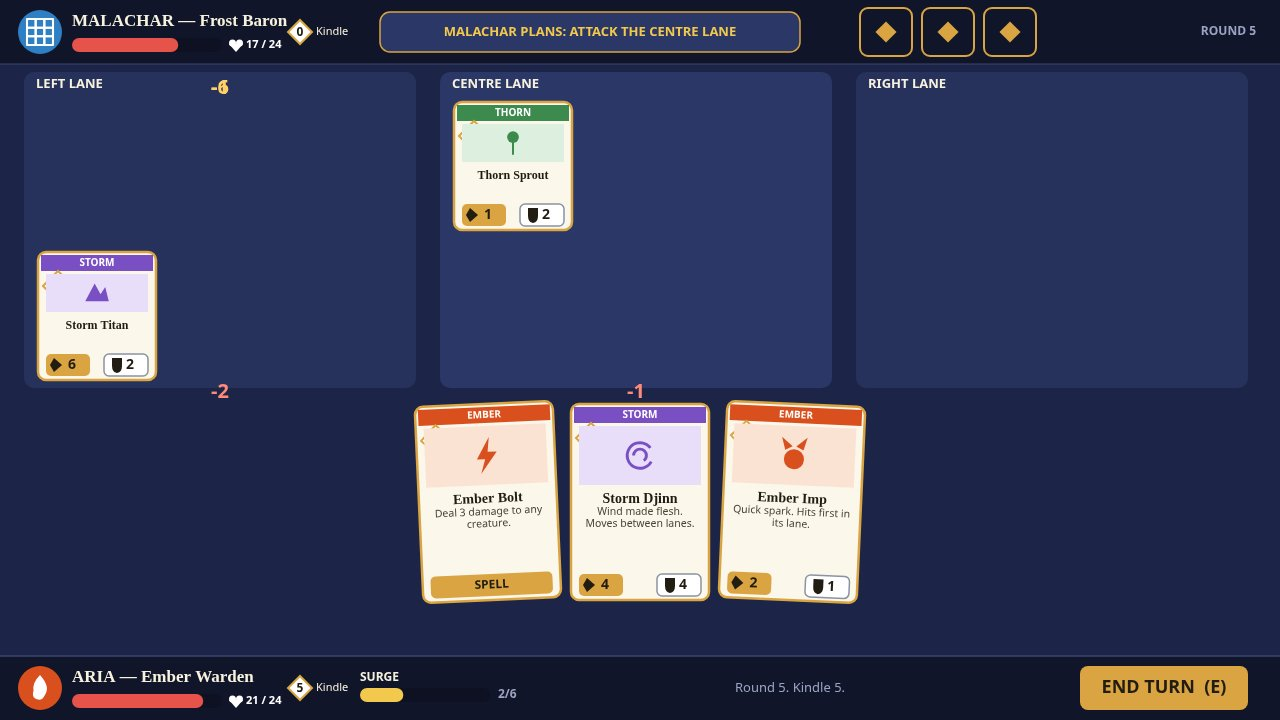
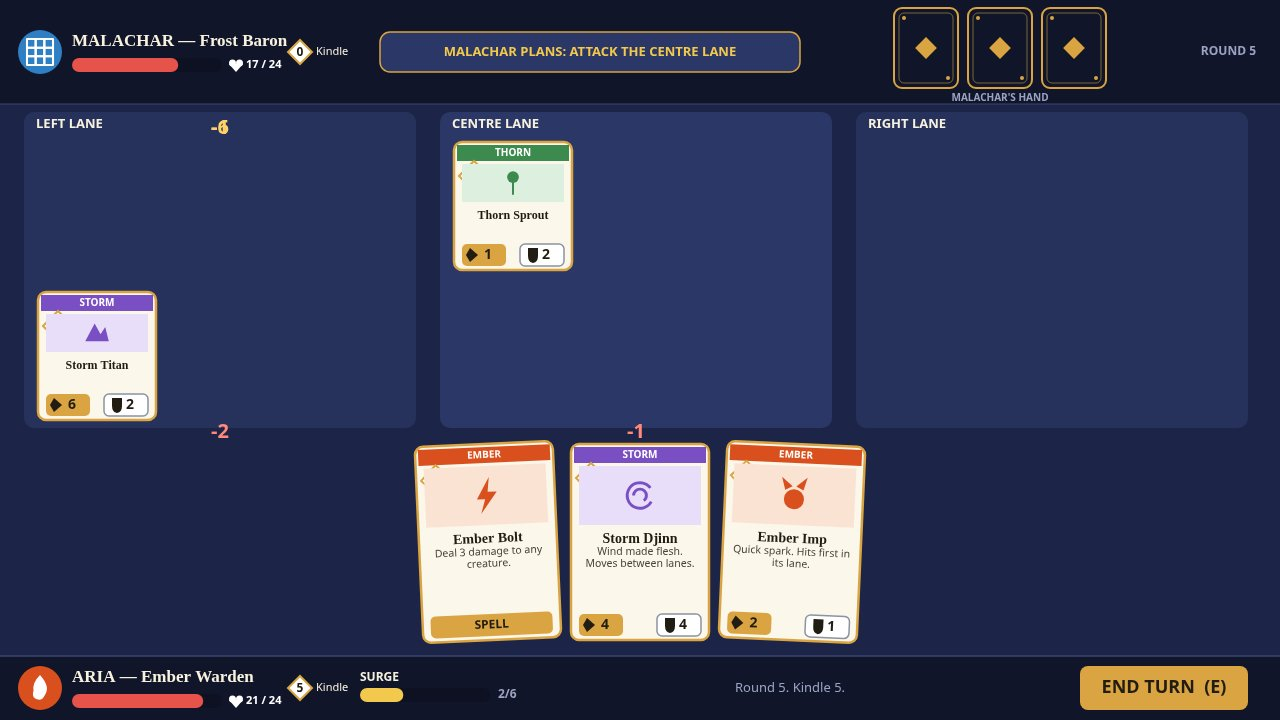
Show Malachar's hand as face-down cards on the table

diff --git a/game/src/render.js b/game/src/render.js
@@ -163,13 +163,24 @@ export function drawArt(ctx, art, cx, cy, s, color) {
 }
 
 function drawCardBack(ctx, x, y, w, h) {
+  // A face-down card must read as a CARD at a glance: portrait, a gold
+  // outer edge, a second inner frame, and a small centred diamond.
+  // v2 shipped 52x48 near-square backs whose big diamond looked like
+  // three gold buttons in the top bar, not a hand of cards.
   roundRect(ctx, x, y, w, h, 8);
   ctx.fillStyle = PALETTE.panel;
   ctx.fill();
   ctx.strokeStyle = PALETTE.gold;
   ctx.lineWidth = 2;
   ctx.stroke();
-  diamond(ctx, x + w / 2, y + h / 2, Math.min(w, h) * 0.22, PALETTE.gold, null);
+  ctx.strokeStyle = 'rgba(217,164,65,0.55)';
+  ctx.lineWidth = 1;
+  roundRect(ctx, x + 5, y + 5, w - 10, h - 10, 5);
+  ctx.stroke();
+  diamond(ctx, x + w / 2, y + h / 2, Math.min(w, h) * 0.17, PALETTE.gold, null);
+  ctx.fillStyle = PALETTE.gold;
+  ctx.beginPath(); ctx.arc(x + 10, y + 10, 2, 0, Math.PI * 2); ctx.fill();
+  ctx.beginPath(); ctx.arc(x + w - 10, y + h - 10, 2, 0, Math.PI * 2); ctx.fill();
 }
 
 export function drawCard(ctx, card, x, y, w, h, opts = {}) {
@@ -406,24 +417,26 @@ function drawHelp(ctx) {
 
 function drawLane(ctx, game, lane) {
   const x = LANE_X[lane];
+  // Lanes start at y=112, below the taller (104px) top bar that now
+  // holds Malachar's face-down hand as real portrait cards.
   ctx.fillStyle = lane % 2 === 0 ? PALETTE.lane : PALETTE.laneAlt;
-  roundRect(ctx, x, 72, LANE_W, 316, 10);
+  roundRect(ctx, x, 112, LANE_W, 316, 10);
   ctx.fill();
   ctx.fillStyle = PALETTE.ivory;
   ctx.font = `bold 13px ${FONT_UI}`;
   ctx.textAlign = 'left';
   ctx.textBaseline = 'middle';
-  ctx.fillText(LANES[lane].toUpperCase(), x + 12, 84);
+  ctx.fillText(LANES[lane].toUpperCase(), x + 12, 124);
   const res = game.player.lanes[lane].some((c) => resonanceBonus(game.player, lane, c) > 0)
     || game.ai.lanes[lane].some((c) => resonanceBonus(game.ai, lane, c) > 0);
   if (res) {
     ctx.fillStyle = PALETTE.gold;
-    roundRect(ctx, x + LANE_W - 128, 74, 116, 20, 9);
+    roundRect(ctx, x + LANE_W - 128, 114, 116, 20, 9);
     ctx.fill();
     ctx.fillStyle = PALETTE.ink;
     ctx.font = `bold 11px ${FONT_UI}`;
     ctx.textAlign = 'center';
-    ctx.fillText('RESONANCE +1', x + LANE_W - 70, 84);
+    ctx.fillText('RESONANCE +1', x + LANE_W - 70, 124);
   }
   ctx.textAlign = 'center';
   // Opponent creatures on top, player creatures below: the table reads
@@ -431,19 +444,19 @@ function drawLane(ctx, game, lane) {
   game.ai.lanes[lane].forEach((creature, i) => {
     const cx = x + 14 + i * (BOARD_CARD.w + 10);
     const shown = { ...creature, atk: effectiveAtk(game, game.ai, lane, creature) };
-    drawCard(ctx, shown, cx, 102, BOARD_CARD.w, BOARD_CARD.h);
+    drawCard(ctx, shown, cx, 142, BOARD_CARD.w, BOARD_CARD.h);
   });
   game.player.lanes[lane].forEach((creature, i) => {
     const cx = x + 14 + i * (BOARD_CARD.w + 10);
     const shown = { ...creature, atk: effectiveAtk(game, game.player, lane, creature) };
     const selected = game.selected >= 0 && game.selectedLane === lane;
-    drawCard(ctx, shown, cx, 252, BOARD_CARD.w, BOARD_CARD.h, { selected });
+    drawCard(ctx, shown, cx, 292, BOARD_CARD.w, BOARD_CARD.h, { selected });
   });
   if (game.selected >= 0 && game.selectedLane === lane) {
     ctx.strokeStyle = PALETTE.goldBright;
     ctx.lineWidth = 3;
     ctx.setLineDash([8, 6]);
-    roundRect(ctx, x - 4, 240, LANE_W + 8, 152, 10);
+    roundRect(ctx, x - 4, 280, LANE_W + 8, 148, 10);
     ctx.stroke();
     ctx.setLineDash([]);
   }
@@ -452,30 +465,33 @@ function drawLane(ctx, game, lane) {
 export function handCardRect(index, count) {
   const total = count * HAND_CARD.w + (count - 1) * 14;
   const x0 = (FIELD.width - total) / 2;
-  return { x: x0 + index * (HAND_CARD.w + 14), y: 404, w: HAND_CARD.w, h: HAND_CARD.h };
+  return { x: x0 + index * (HAND_CARD.w + 14), y: 444, w: HAND_CARD.w, h: HAND_CARD.h };
 }
 
 export function drawTable(ctx, game) {
   ctx.fillStyle = PALETTE.table;
   ctx.fillRect(0, 0, FIELD.width, FIELD.height);
-  // Top bar: Malachar, his intent, his face-down hand.
+  // Top bar: Malachar, his intent, his face-down hand. The bar is
+  // 104px tall so the opponent hand fits as real portrait cards
+  // (64x80) with a label underneath — not the 52x48 near-squares
+  // v2 shipped, whose big diamond read as three gold buttons.
   ctx.fillStyle = PALETTE.panel;
-  ctx.fillRect(0, 0, FIELD.width, 64);
+  ctx.fillRect(0, 0, FIELD.width, 104);
   ctx.strokeStyle = PALETTE.panelEdge;
-  ctx.beginPath(); ctx.moveTo(0, 64); ctx.lineTo(FIELD.width, 64); ctx.stroke();
+  ctx.beginPath(); ctx.moveTo(0, 104); ctx.lineTo(FIELD.width, 104); ctx.stroke();
   ctx.fillStyle = ELEMENTS.frost.color;
-  ctx.beginPath(); ctx.arc(40, 32, 22, 0, Math.PI * 2); ctx.fill();
-  drawArt(ctx, 'wall', 40, 32, 26, '#ffffff');
+  ctx.beginPath(); ctx.arc(40, 52, 22, 0, Math.PI * 2); ctx.fill();
+  drawArt(ctx, 'wall', 40, 52, 26, '#ffffff');
   ctx.fillStyle = PALETTE.ivory;
   ctx.font = `bold 17px ${FONT}`;
   ctx.textAlign = 'left';
   ctx.textBaseline = 'middle';
-  ctx.fillText('MALACHAR — Frost Baron', 72, 22);
-  lifeBar(ctx, 72, 38, 150, game.ai.life);
-  kindleGem(ctx, 300, 32, game.ai.kindle);
+  ctx.fillText('MALACHAR — Frost Baron', 72, 42);
+  lifeBar(ctx, 72, 58, 150, game.ai.life);
+  kindleGem(ctx, 300, 52, game.ai.kindle);
   // Intent: what Malachar will do next, visible before his turn.
   ctx.fillStyle = '#2b3766';
-  roundRect(ctx, 380, 12, 420, 40, 10);
+  roundRect(ctx, 380, 32, 420, 40, 10);
   ctx.fill();
   ctx.strokeStyle = PALETTE.gold;
   ctx.lineWidth = 1.5;
@@ -483,15 +499,30 @@ export function drawTable(ctx, game) {
   ctx.fillStyle = PALETTE.goldBright;
   ctx.font = `bold 13px ${FONT_UI}`;
   ctx.textAlign = 'center';
-  ctx.fillText(`MALACHAR PLANS: ${game.intent.toUpperCase()}`, 590, 32);
-  // Opponent hand: face-down cards, counted by the backs themselves.
-  for (let i = 0; i < game.ai.hand.length; i += 1) {
-    drawCardBack(ctx, 860 + i * 62, 8, 52, 48);
+  ctx.fillText(`MALACHAR PLANS: ${game.intent.toUpperCase()}`, 590, 52);
+  // Opponent hand: one face-down portrait card per card in his hand,
+  // in a row above the lanes, centred on x=1000, clear of the intent
+  // bar (ends x=800) and the ROUND readout (right edge).
+  {
+    const n = game.ai.hand.length;
+    const bw = n <= 4 ? 64 : 48;
+    const bh = Math.round(bw * 1.25);
+    const gap = 10;
+    const total = n * bw + (n - 1) * gap;
+    const x0 = 1000 - total / 2;
+    const y0 = 8 + (80 - bh) / 2;
+    for (let i = 0; i < n; i += 1) {
+      drawCardBack(ctx, x0 + i * (bw + gap), y0, bw, bh);
+    }
+    ctx.fillStyle = PALETTE.muted;
+    ctx.font = `bold 10px ${FONT_UI}`;
+    ctx.textAlign = 'center';
+    ctx.fillText("MALACHAR'S HAND", 1000, 98);
   }
   ctx.fillStyle = PALETTE.muted;
   ctx.font = `bold 12px ${FONT_UI}`;
   ctx.textAlign = 'right';
-  ctx.fillText(`ROUND ${game.turn}`, 1256, 32);
+  ctx.fillText(`ROUND ${game.turn}`, 1256, 52);
   ctx.textAlign = 'center';
   // Lanes.
   for (let lane = 0; lane < 3; lane += 1) drawLane(ctx, game, lane);

diff --git a/game/src/engine.js b/game/src/engine.js
@@ -130,7 +130,7 @@ export function playCard(game, side, handIndex, lane) {
     if (target) {
       if (damageCreature(game, foe, target, 3)) game.log.push(`Ember Bolt burns ${target.name}.`);
     } else {
-      damageLife(game, foe, 3, side === game.player, [220, 636, 1052][lane], foe === game.ai ? 88 : 392);
+      damageLife(game, foe, 3, side === game.player, [220, 636, 1052][lane], foe === game.ai ? 128 : 432);
     }
   } else if (card.id === 'frost-mend') {
     side.life = Math.min(LIFE_START, side.life + 5);
@@ -190,7 +190,7 @@ function attackPhase(game, attacker, defender, byPlayer) {
         if (died) game.log.push(`${target.name} falls in ${['Left', 'Centre', 'Right'][lane]} Lane.`);
       } else {
         // Life damage pins its floating text to the lane that dealt it.
-        damageLife(game, defender, atk, byPlayer, [220, 636, 1052][lane], defender === game.ai ? 88 : 392);
+        damageLife(game, defender, atk, byPlayer, [220, 636, 1052][lane], defender === game.ai ? 128 : 432);
         game.log.push(`${creature.name} strikes for ${atk}.`);
       }
       if (checkOver(game)) return;

diff --git a/game/src/input.js b/game/src/input.js
@@ -17,7 +17,7 @@ function scalePoint(canvas, event) {
 }
 
 function laneAt(point) {
-  if (point.y < 72 || point.y > 388) return -1;
+  if (point.y < 112 || point.y > 428) return -1;
   for (let lane = 0; lane < 3; lane += 1) {
     if (point.x >= LANE_X[lane] && point.x <= LANE_X[lane] + LANE_W) return lane;
   }
